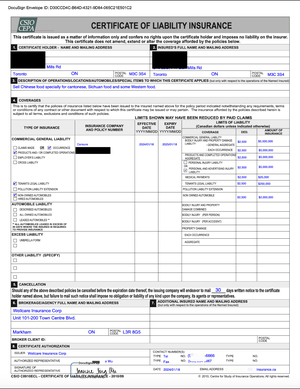
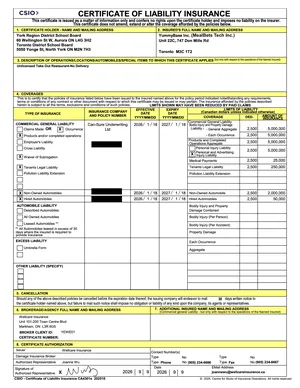
Update certificate and insurance

diff --git a/index.html b/index.html
@@ -685,8 +685,8 @@
                         <p class="qualificationlabel">PPM-150 Confirmation Letter, by Certified Dietitian-Nutritionist</p>
                       </div>
                         <div class="col-lg-4 qualification-item">
-                            <a href="assets/images/qa/dineSafePass_202604.jpg" class="glightbox">
-                                <img data-responsive-source="assets/images/qa/dineSafePass_202604.jpg" srcset="/assets/media/responsive/dineSafePass_202604-300w.webp 300w, /assets/media/responsive/dineSafePass_202604-600w.webp 600w, /assets/media/responsive/dineSafePass_202604-900w.webp 900w" sizes="(min-width: 360px) 300px, calc(100vw - 48px)" src="/assets/media/responsive/dineSafePass_202604-300w.webp" class="qualification-img img-fluid"
+                            <a href="assets/images/qa/dineSafePass_202607.jpg" class="glightbox">
+                                <img data-responsive-source="assets/images/qa/dineSafePass_202607.jpg" srcset="/assets/media/responsive/dineSafePass_202607-300w.webp 300w, /assets/media/responsive/dineSafePass_202607-600w.webp 600w, /assets/media/responsive/dineSafePass_202607-900w.webp 900w" sizes="(min-width: 360px) 300px, calc(100vw - 48px)" src="/assets/media/responsive/dineSafePass_202607-300w.webp" class="qualification-img img-fluid"
                                       alt="DineSafe inspection certificate" width="954" height="1200"
                                       loading="lazy" decoding="async">
                             </a>
